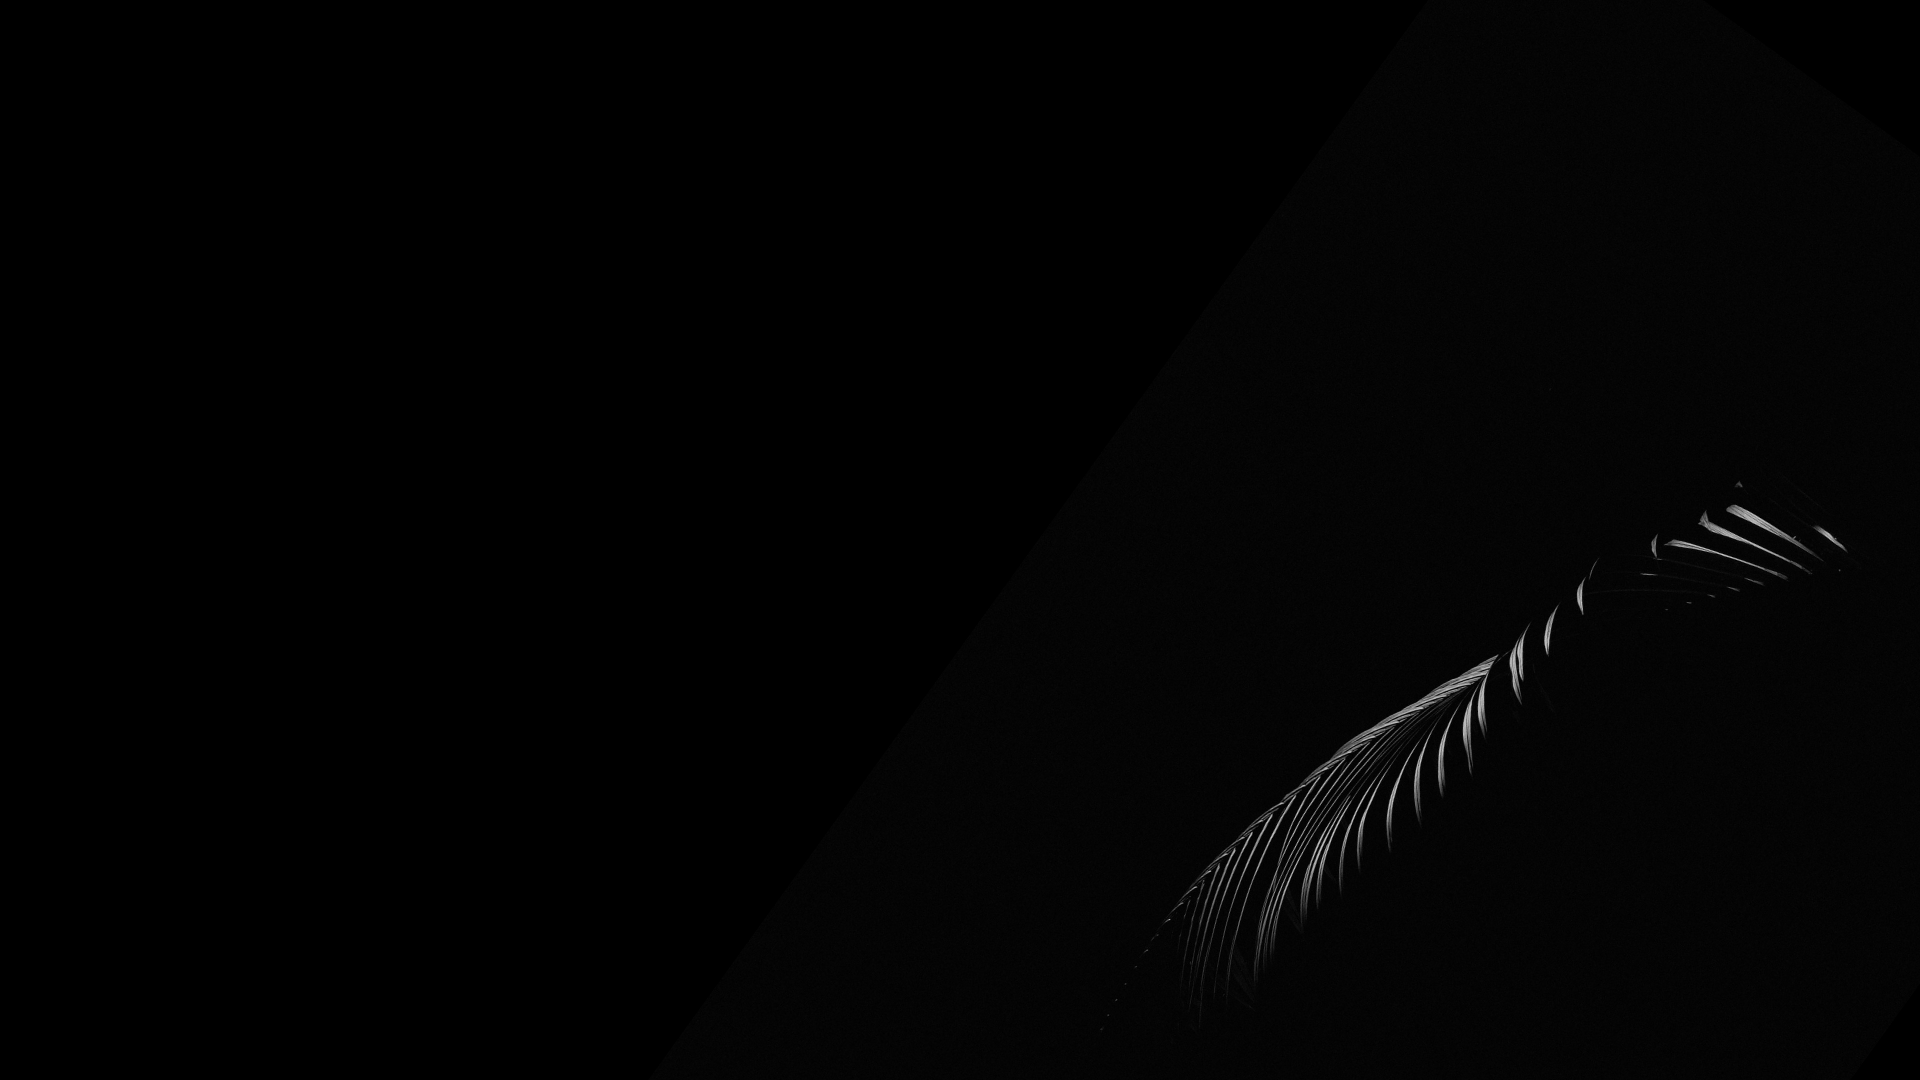
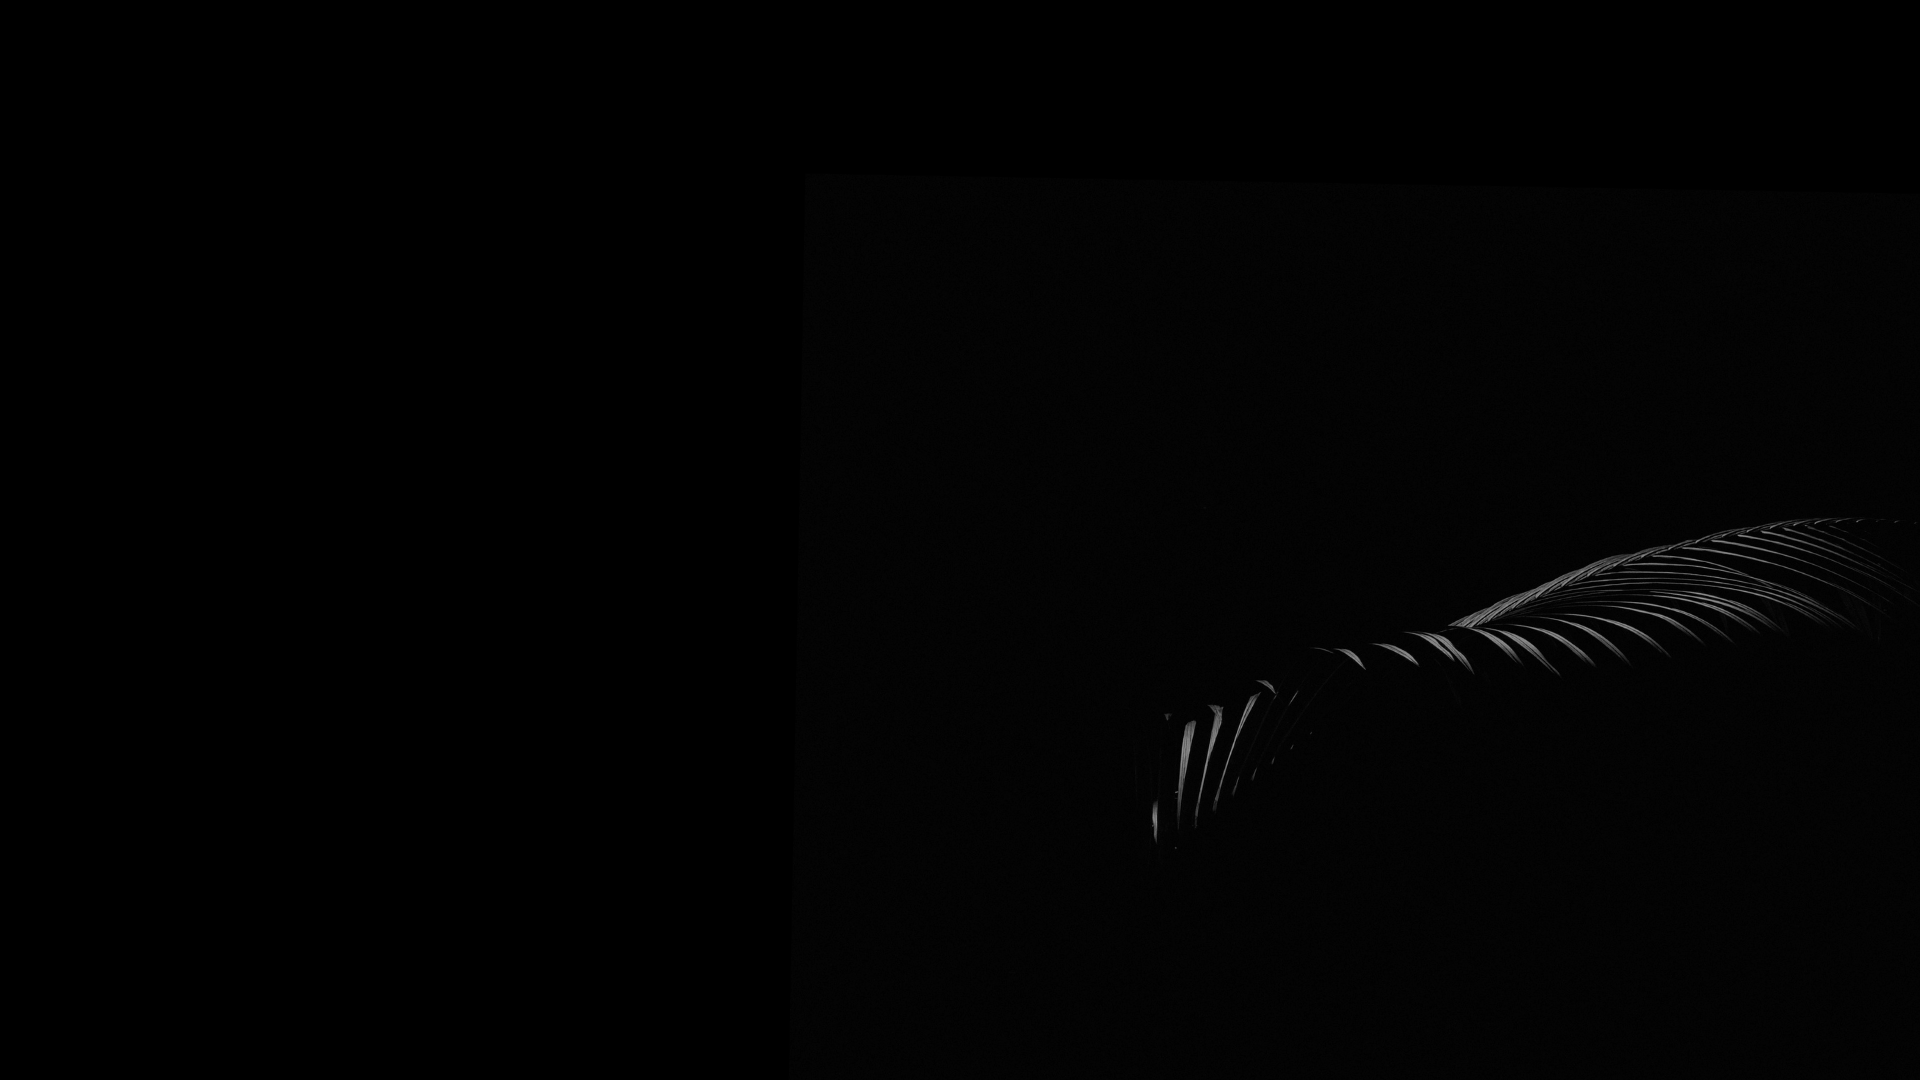
sizing

Changed region(s): [[0.5938, 0.4583, 0.9688, 0.8861]]

diff --git a/Portfolio/css/styles.css b/Portfolio/css/styles.css
@@ -2,7 +2,8 @@ body {
     background-image: url("../images/Untitled design.png");
     background-size: cover;
     background-repeat: repeat;
-    background-position: right;
+    background-position: 700px;
+    background-origin: ;
     color: rgba(222, 222, 222, 0.93);
     font-family: 'Poppins', sans-serif;
     font-family: 'Roboto', sans-serif;
@@ -178,11 +179,12 @@ hr {
 }
 
 .pageText {
-    font-weight: 200;
+    font-weight: 300;
     letter-spacing: 0.05rem;
     font-size: 0.7em;
     text-align: center;
     margin: 6vh 10vw;
+    color: rgba(222, 222, 222, 0.93);
 }
 
 @media screen and (min-width: 650px) {
@@ -539,21 +541,26 @@ input::placeholder {
     .aboutMeMobileCard.aboutMePage {
         align-items: center;
         height: 100%;
-        width: 60px;
+        width: clamp(75px, 15vw, 125px);
     }
     .contactCard.aboutMePage {
         flex-direction: column;
         max-height: none;
+        height:clamp(50px, 20vh, 250px);
         padding: 3%;
-        height: fit-content;
     }
     .languageIconContainer {
         flex-wrap: wrap;
+        font-size: clamp(10pt, 3vw, 16pt);
         height: fit-content;
         justify-content: center;
     }
     .mobileCardImage {
-        width: clamp(50px, 10vw, 80px);
+        width: clamp(50px, 20vw, 150px);
+    }
+
+    h1.overlined.strike {
+        margin-bottom: 0;
     }
 
     .aboutMeSection.projects {
@@ -562,5 +569,15 @@ input::placeholder {
 
     .pageText {
         margin-left: 3%;
+    }
+
+    body.projects {
+        background-image: url("../images/projects_backgroundpng.png");
+        background-position: -50px;
+    }
+
+    body {
+        background-image: url("../images/DesktopBackground.png");
+        background-position: center;
     }
 }

diff --git a/Portfolio/projects.html b/Portfolio/projects.html
@@ -11,7 +11,7 @@
     <link rel="preconnect" href="https://fonts.gstatic.com" crossorigin>
     <link href="https://fonts.googleapis.com/css2?family=Poppins:wght@300;400;500;700;800&family=Roboto:wght@100;300;400;500;700;900&display=swap" rel="stylesheet">
 </head>
-<body>
+<body class="projects">
 <nav class="homeNav">
     <div class="homeNavInnerDiv">
         <div class="homeNavLinks" >
